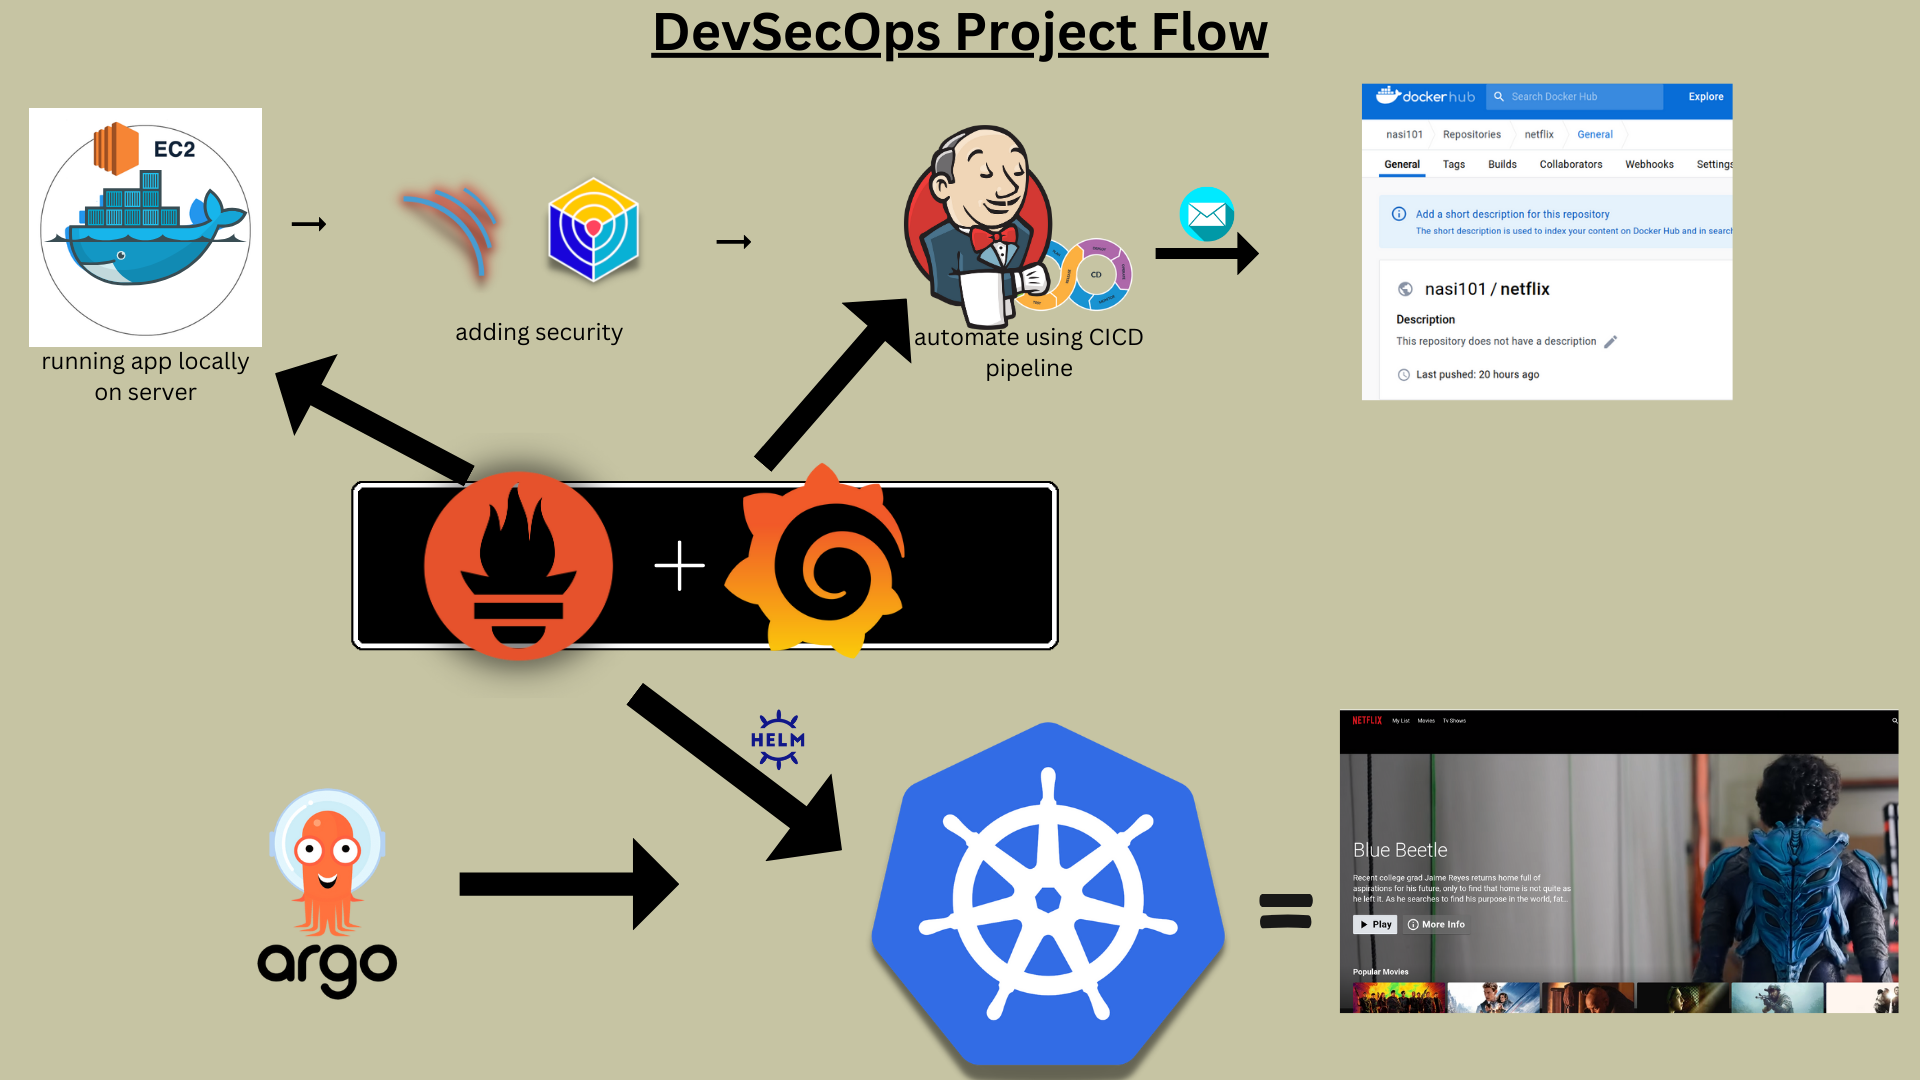
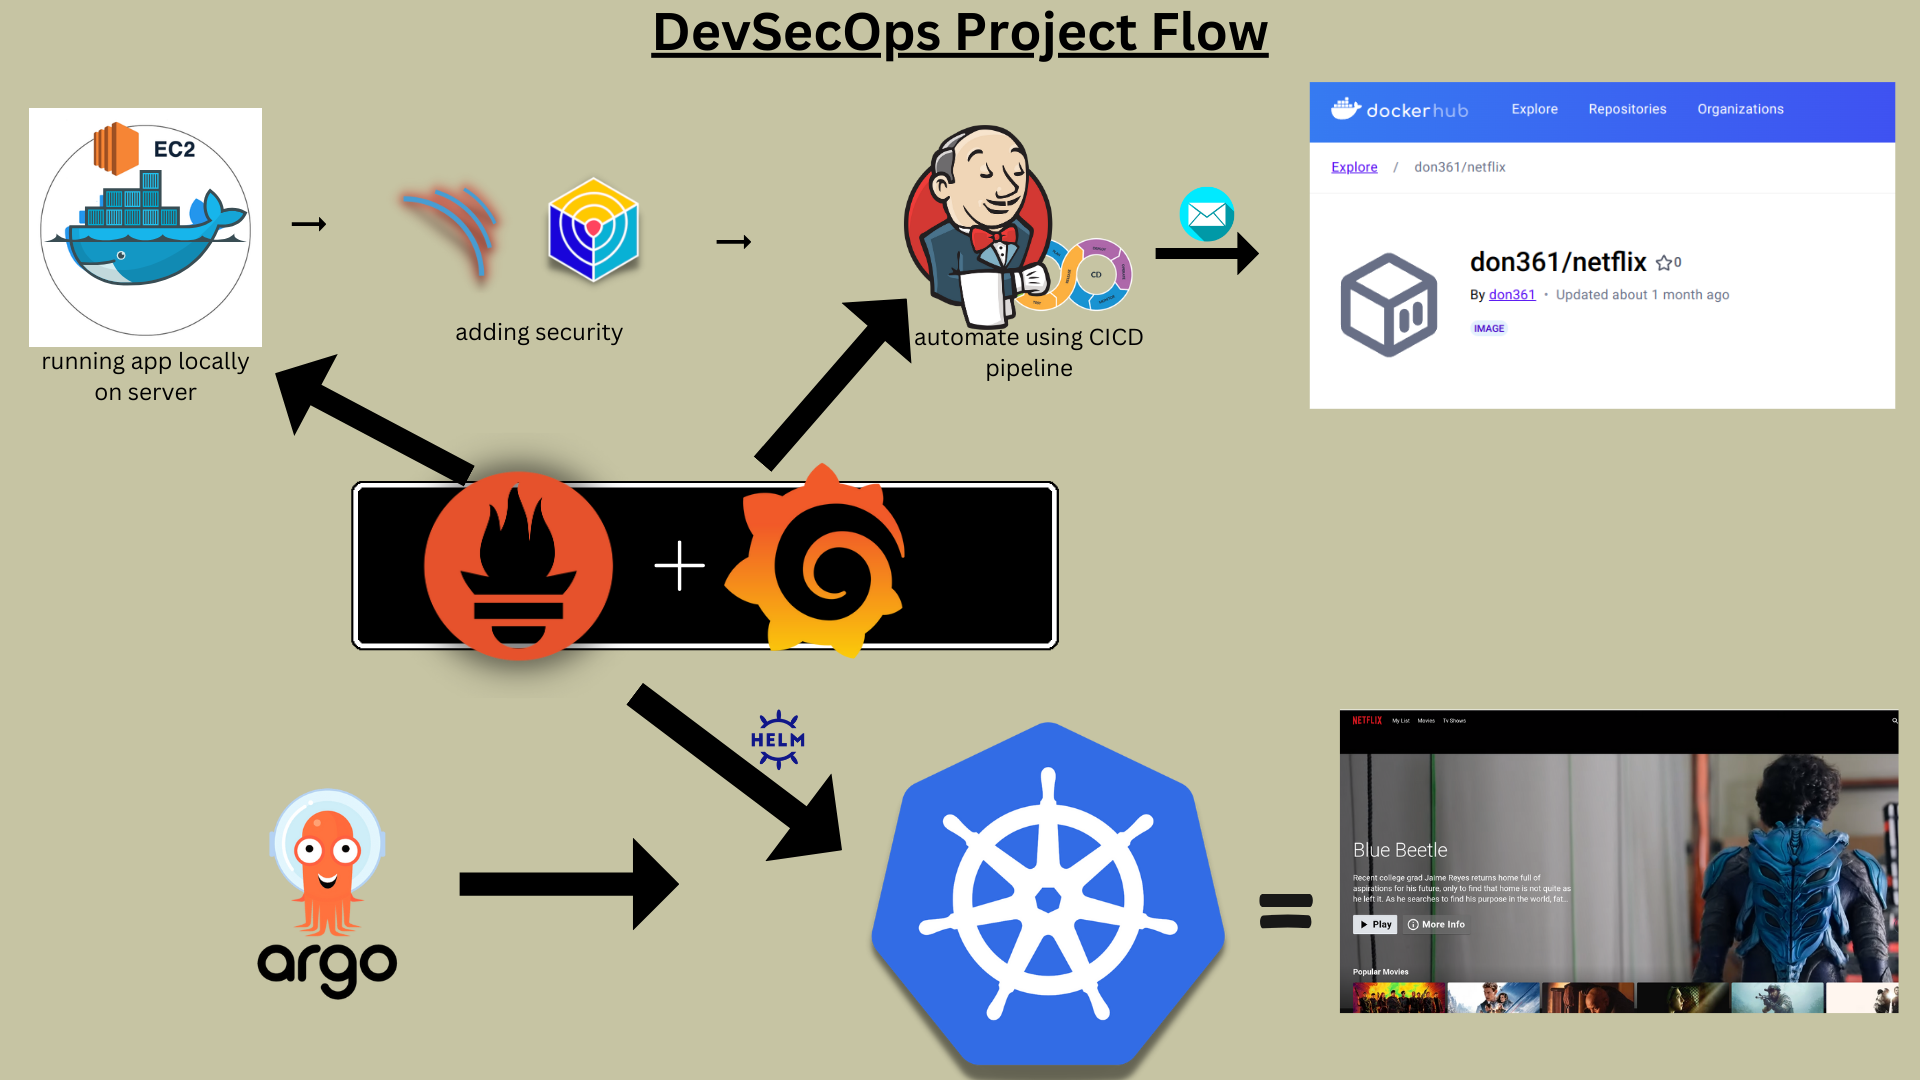
update project files

Changed region(s): [[0.6562, 0.0611, 1.0, 0.3972]]

diff --git a/README.md b/README.md
@@ -38,7 +38,6 @@
 - Set up Docker on the EC2 instance:
     
     ```bash
-    
     sudo apt-get update
     sudo apt-get install docker.io -y
     sudo usermod -aG docker $USER  # Replace with your system's username, e.g., 'ubuntu'
@@ -61,7 +60,7 @@ It will show an error cause you need API key
 
 **Step 4: Get the API Key:**
 
-- Open a web browser and navigate to TMDB (The Movie Database) website.
+- Open a web browser and navigate to TMDB (The Movie Database) website (https://www.themoviedb.org/).
 - Click on "Login" and create an account.
 - Once logged in, go to your profile and select "Settings."
 - Click on "API" from the left-side panel.
@@ -161,7 +160,7 @@ Goto Manage Jenkins → Tools → Install JDK(17) and NodeJs(16)→ Click on App
 
 Create the token
 
-Goto Jenkins Dashboard → Manage Jenkins → Credentials → Add Secret Text. It should look like this
+Goto Jenkins Dashboard → Manage Jenkins → Credentials → Add Secret Text.
 
 After adding sonar token
 
@@ -268,7 +267,6 @@ Certainly, here are the instructions without step numbers:
 Now, you have installed the Dependency-Check plugin, configured the tool, and added Docker-related plugins along with your DockerHub credentials in Jenkins. You can now proceed with configuring your Jenkins pipeline to include these tools and credentials in your CI/CD process.
 
 ```groovy
-
 pipeline{
     agent any
     tools{
@@ -325,33 +323,32 @@ pipeline{
                 script{
                    withDockerRegistry(credentialsId: 'docker', toolName: 'docker'){   
                        sh "docker build --build-arg TMDB_V3_API_KEY=<yourapikey> -t netflix ."
-                       sh "docker tag netflix nasi101/netflix:latest "
-                       sh "docker push nasi101/netflix:latest "
+                       sh "docker tag netflix don361/netflix:latest "
+                       sh "docker push don361/netflix:latest "
                     }
                 }
             }
         }
         stage("TRIVY"){
             steps{
-                sh "trivy image nasi101/netflix:latest > trivyimage.txt" 
+                sh "trivy image don361/netflix:latest > trivyimage.txt" 
             }
         }
         stage('Deploy to container'){
             steps{
-                sh 'docker run -d --name netflix -p 8081:80 nasi101/netflix:latest'
+                sh 'docker run -d --name netflix -p 8081:80 don361/netflix:latest'
             }
         }
     }
 }
+```
 
+**If you get docker login failed errorr**
 
-If you get docker login failed errorr
-
+```bash
 sudo su
 sudo usermod -aG docker jenkins
 sudo systemctl restart jenkins
-
-
 ```
 
 **Phase 4: Monitoring**
